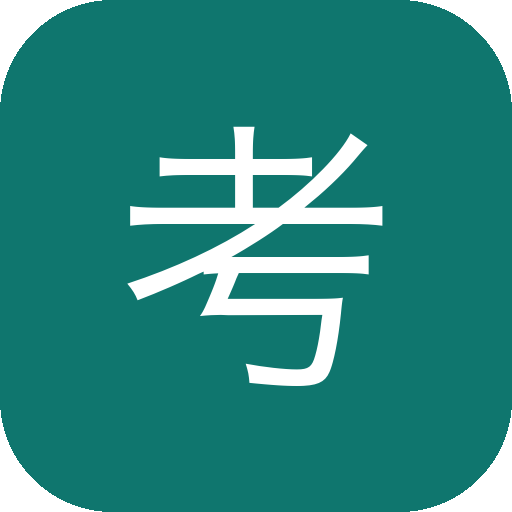
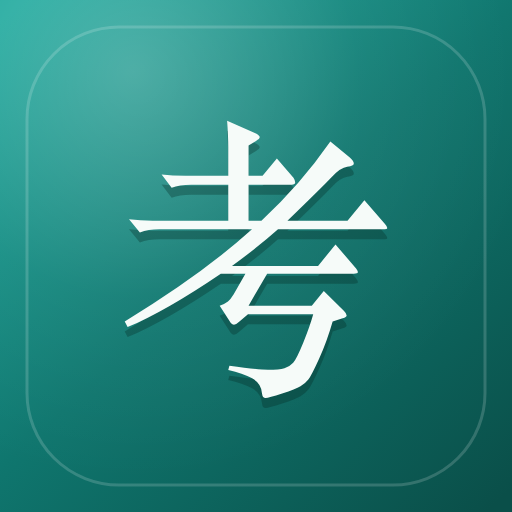
支持下载到本地安装：补 service worker 与安装入口，换新图标
- 新增 sw.js（kd-v1），index/段落/生词本 均注册
- index.html 加「下载到本地 · 安装应用」按钮与 iOS 添加到主屏幕提示
- 重做图标：墨绿渐变 + 内描边，512/192/180 三档，附 icon.svg
- 补 favicon（svg + 192 png）

diff --git a/index.html b/index.html
@@ -103,16 +103,27 @@ html.dark .tk,html.dark .decks{background:var(--paper-2)}
 /* 手动主题：html.dark / html.light 覆盖系统偏好 */
 html.dark{color-scheme:dark;--ink:#e8eaed; --ink-2:#9aa3ad; --ink-3:#737d88;--line:#2c3037; --line-2:#242830; --paper:#16181c; --paper-2:#1d2025;--accent:#4fd1c5; --accent-2:#38b2a5; --mark:#4a3f1a; --mark-2:#3a3215; --syn:#e0a06a;}
 html.light{color-scheme:light;--ink:#1f2328; --ink-2:#57606a; --ink-3:#8b949e; --line:#e6e2da; --line-2:#efece5; --paper:#fdfcf9; --paper-2:#f7f4ee; --accent:#0f766e; --accent-2:#0d5f59; --mark:#fdf6e3; --mark-2:#f6e7c8; --syn:#8a4b16;}
+/* ---- 下载到本地（PWA 安装） ---- */
+.pwa{display:none;margin:12px 0 0;font:inherit;font-size:13.5px;font-weight:650;color:#fff;
+ background:var(--accent);border:1px solid var(--accent);border-radius:999px;padding:8px 20px;cursor:pointer}
+.pwa.on{display:inline-block}
+.pwa:active{transform:translateY(1px)}
+.pwahint{display:none;margin-top:9px;font-size:12.2px;line-height:1.7;color:var(--ink2)}
+.pwahint.on{display:block}
 </style><!-- pwa -->
 <link rel="manifest" href="manifest.webmanifest">
 <meta name="theme-color" content="#0f766e">
 <link rel="apple-touch-icon" href="apple-touch-icon.png">
+<link rel="icon" type="image/svg+xml" href="icon.svg">
+<link rel="icon" href="icon-192.png" sizes="192x192">
 <meta name="apple-mobile-web-app-capable" content="yes">
 <meta name="mobile-web-app-capable" content="yes">
 <meta name="apple-mobile-web-app-title" content="考点词">
 </head>
 <body><div class="wrap">
-<header class="top"><h1>雅思考点词 · 词表</h1><div class="sub">从 PDF 转出的网页版，已去除水印与二维码</div></header>
+<header class="top"><h1>雅思考点词 · 词表</h1><div class="sub">从 PDF 转出的网页版，已去除水印与二维码</div>
+<button class="pwa" id="pwaBtn" type="button">下载到本地 · 安装应用</button>
+<p class="pwahint" id="pwaHint">iPhone / iPad：点浏览器底部的「分享」按钮，选「添加到主屏幕」，之后从桌面图标打开就是独立 App。</p></header>
 <div class="today">
  <a class="tk hot" href="生词本.html"><div class="lb">今天该复习</div><div class="v" id="tkdue">0</div><div class="sub2" id="tkdsub">—</div></a>
  <div class="tk"><div class="lb">已掌握</div><div class="v" id="tkm">0</div><div class="sub2" id="tkmr">—</div></div>
@@ -453,6 +464,31 @@ var FT=(function(){
 
 /* 工具按钮 */
 (function(){
+})();
+</script>
+
+<script>
+/* PWA：注册 service worker，让站点能装到桌面 / 断网可用 */
+if('serviceWorker' in navigator){ window.addEventListener('load', function(){ navigator.serviceWorker.register('sw.js').catch(function(){}) }) }
+</script>
+
+<script>
+/* ---- PWA 安装入口 ---- */
+(function(){
+ var b=document.getElementById('pwaBtn'), hint=document.getElementById('pwaHint');
+ var standalone=(window.matchMedia&&matchMedia('(display-mode: standalone)').matches)||navigator.standalone;
+ if(standalone){ if(b&&b.parentNode) b.parentNode.removeChild(b); if(hint&&hint.parentNode) hint.parentNode.removeChild(hint); return; }
+ var deferred=null;
+ window.addEventListener('beforeinstallprompt', function(e){ e.preventDefault(); deferred=e; if(b) b.classList.add('on') });
+ if(b) b.addEventListener('click', function(){
+  if(deferred){ deferred.prompt(); deferred.userChoice.then(function(){ deferred=null; b.classList.remove('on') }) }
+  else if(hint){ hint.classList.add('on') }
+ });
+ var ios=/iP(hone|ad|od)/.test(navigator.platform||'')||(/Macintosh/.test(navigator.userAgent)&&'ontouchend' in document);
+ if(ios){ if(b) b.classList.add('on'); if(hint) hint.classList.add('on') }
+ window.addEventListener('appinstalled', function(){
+  if(b&&b.parentNode) b.parentNode.removeChild(b); if(hint&&hint.parentNode) hint.parentNode.removeChild(hint);
+ });
 })();
 </script>
 </body></html>

diff --git a/sw.js b/sw.js
@@ -1,0 +1,56 @@
+/* 雅思词汇真经 · Service Worker
+   让站点可以「下载到本地」当 App 用：装完断网也能开。
+   策略：静态资源 stale-while-revalidate（先给缓存，后台更新）。 */
+const VER = 'kd-v1';
+const CORE = [
+  './',
+  'index.html',
+  '段落.html',
+  '生词本.html',
+  '查词.html',
+  'manifest.webmanifest',
+  'icon-192.png',
+  'icon-512.png',
+  'apple-touch-icon.png'
+];
+
+self.addEventListener('install', e => {
+  e.waitUntil(
+    caches.open(VER)
+      .then(c => Promise.all(CORE.map(u => c.add(u).catch(() => {}))))
+      .then(() => self.skipWaiting())
+  );
+});
+
+self.addEventListener('activate', e => {
+  e.waitUntil(
+    caches.keys()
+      .then(ks => Promise.all(ks.filter(k => k !== VER).map(k => caches.delete(k))))
+      .then(() => self.clients.claim())
+  );
+});
+
+self.addEventListener('fetch', e => {
+  const req = e.request;
+  if (req.method !== 'GET') return;
+  const url = new URL(req.url);
+  if (url.origin !== location.origin) return;
+
+  e.respondWith(
+    caches.match(req).then(hit => {
+      const net = fetch(req).then(res => {
+        if (res && res.status === 200 && res.type === 'basic') {
+          const copy = res.clone();
+          caches.open(VER).then(c => c.put(req, copy)).catch(() => {});
+        }
+        return res;
+      }).catch(() => hit || caches.match('index.html'));
+      return hit || net;
+    })
+  );
+});
+
+/* 允许页面主动要求立刻更新 */
+self.addEventListener('message', e => {
+  if (e.data === 'skip-waiting') self.skipWaiting();
+});

diff --git a/段落.html b/段落.html
@@ -756,4 +756,9 @@ chips();
 document.getElementById('cttl').innerHTML=TT[ch]+' <em>'+TT.sub[ch]+'</em>';
 render();
 </script>
+
+<script>
+/* PWA：注册 service worker，让站点能装到桌面 / 断网可用 */
+if('serviceWorker' in navigator){ window.addEventListener('load', function(){ navigator.serviceWorker.register('sw.js').catch(function(){}) }) }
+</script>
 </body></html>

diff --git a/生词本.html b/生词本.html
@@ -3220,4 +3220,9 @@ var SH=(function(){
  window.CONFUSE={refresh:render};
 })();
 </script>
+
+<script>
+/* PWA：注册 service worker，让站点能装到桌面 / 断网可用 */
+if('serviceWorker' in navigator){ window.addEventListener('load', function(){ navigator.serviceWorker.register('sw.js').catch(function(){}) }) }
+</script>
 </body></html>
